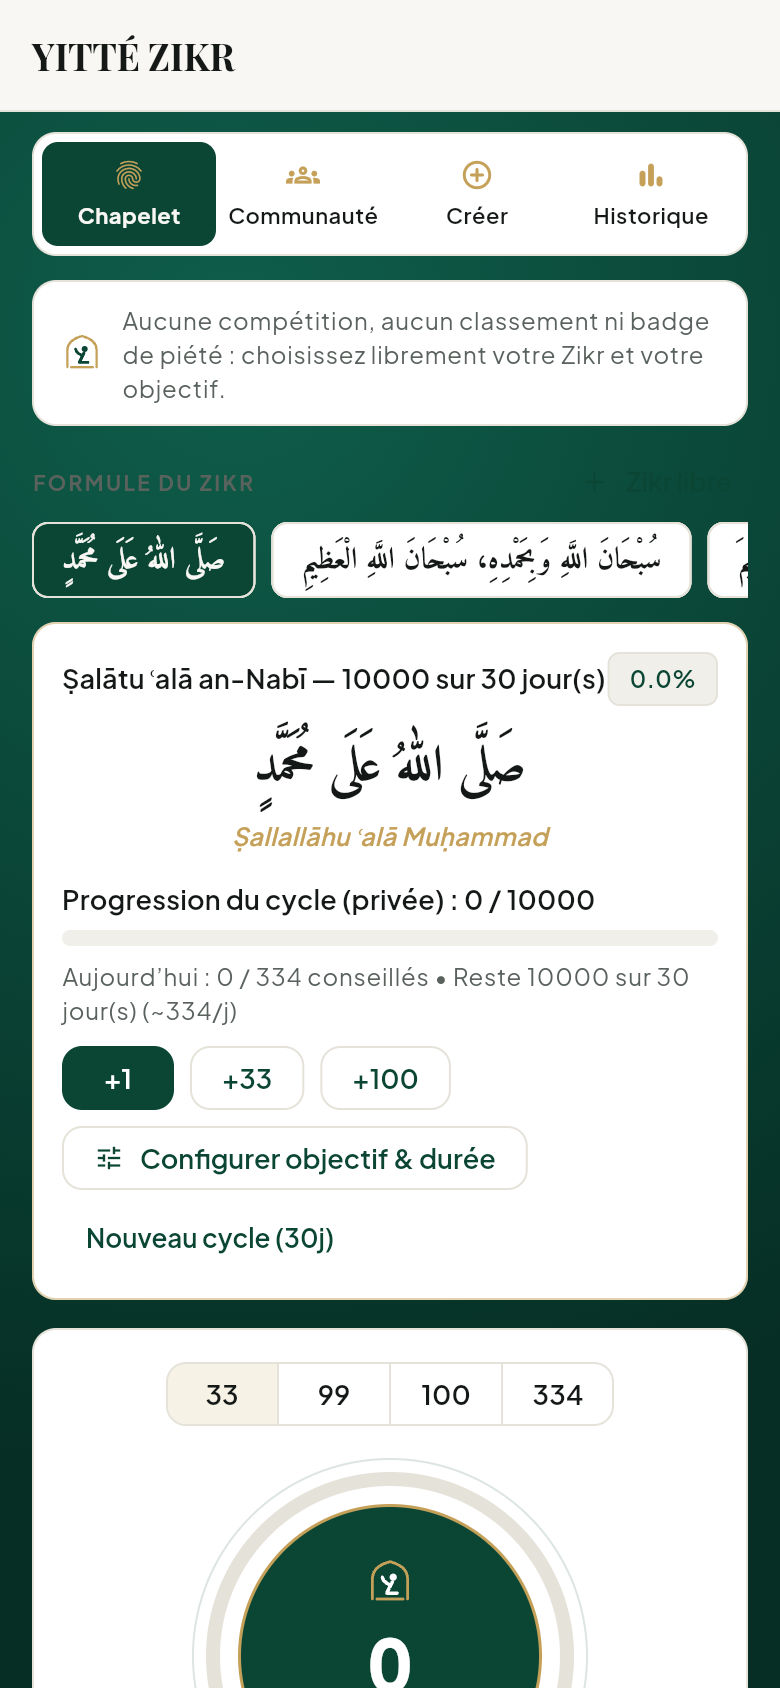
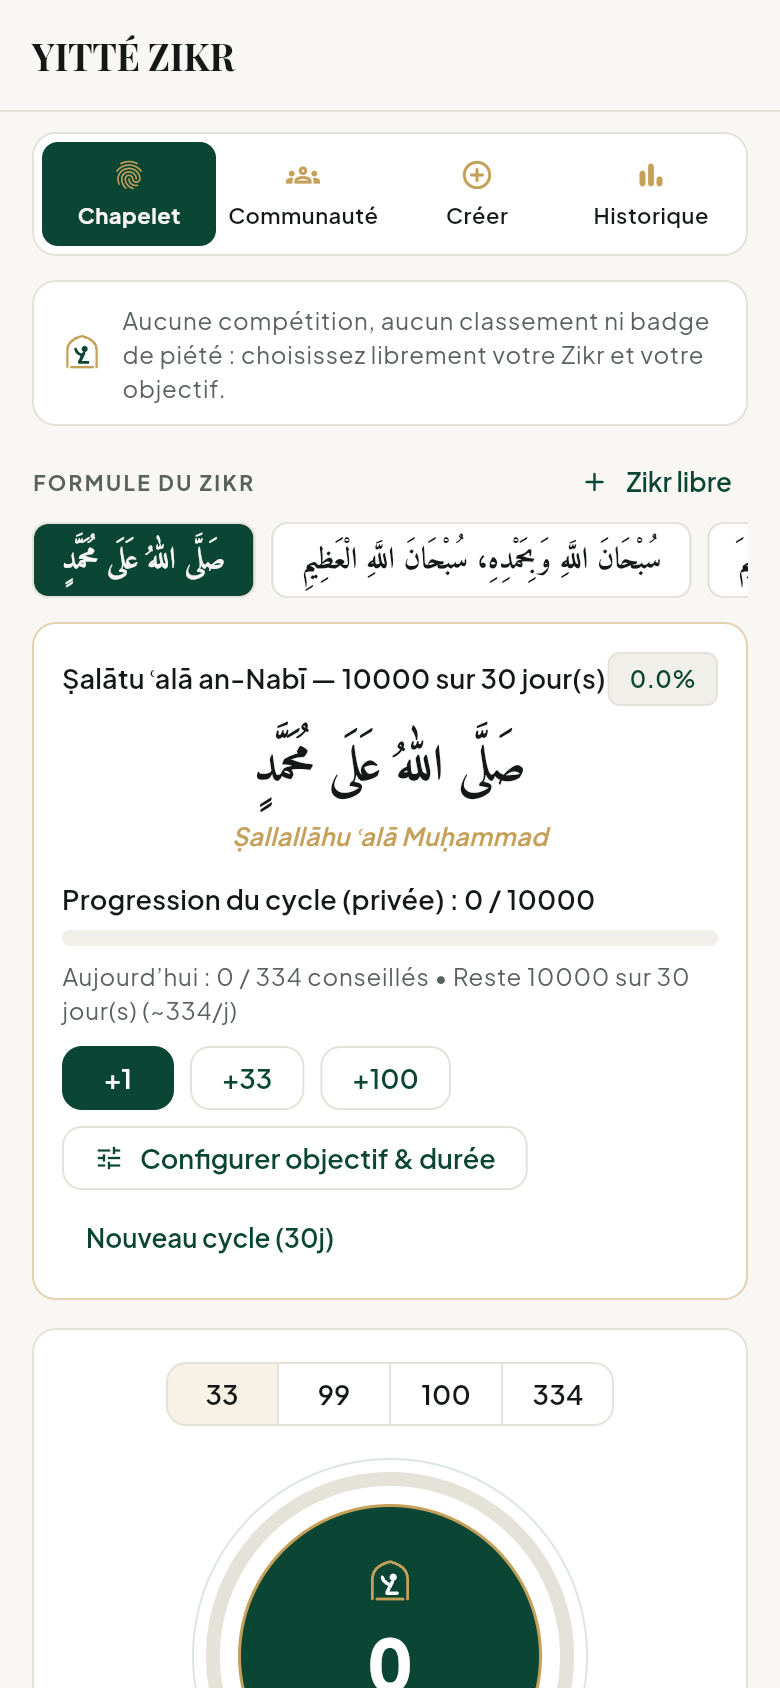
Fix fond ivoire mat de ZikrScreen (contraste net sur tous les libellés)

Changed region(s): [[0.0, 0.0616, 1.0, 1.0]]

diff --git a/mobile/lib/features/zikr/zikr_screen.dart b/mobile/lib/features/zikr/zikr_screen.dart
@@ -113,7 +113,7 @@ class _ZikrScreenState extends ConsumerState<ZikrScreen> {
     final tokens = AppTheme.tokensOf(context);
 
     return Scaffold(
-      backgroundColor: Colors.transparent,
+      backgroundColor: tokens.canvas,
       appBar: AppBar(
         title: const Text('YITTÉ ZIKR'),
       ),
